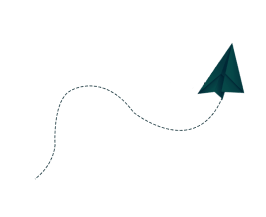
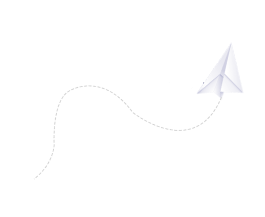
contact page

diff --git a/src/pages/contact.jsx b/src/pages/contact.jsx
@@ -69,7 +69,7 @@ const Contact = () => {
             </div>
             <div className="button">
               <button>Send Message</button>
-              <img src="/images/Four.png" alt="four" />
+              <img src="/images/Contact/Four.png" alt="four" />
             </div>
           </div>
         </div>
@@ -104,18 +104,19 @@ const Container = styled.div`
       p.head {
         font-size: 2rem;
         font-weight: 800;
-        color: var(--dark);
+        color: var(--white);
       }
 
       p.para {
         line-height: 30px;
+        color: var(--bright);
       }
     }
 
     .content {
       height: auto;
       display: flex;
-      margin: 10px 0 10px 0;
+      margin: 10px 0 50px 0;
       flex-direction: row;
 
       @media only screen and (min-width: 1200px) {
@@ -130,7 +131,7 @@ const Container = styled.div`
         width: 40%;
         height: 650px;
         border-radius: 10px;
-        background: var(--white);
+        background: var(--dark);
         padding: 30px;
 
         .top {
@@ -140,6 +141,10 @@ const Container = styled.div`
           flex-direction: column;
           align-content: flex-start;
 
+          p {
+            color: var(--white);
+          }
+
           .head {
             font-size: 2em;
           }
@@ -148,6 +153,10 @@ const Container = styled.div`
         .middle {
           width: 100%;
           height: auto;
+
+          p {
+            color: var(--white);
+          }
 
           .row {
             width: 100%;
@@ -160,11 +169,13 @@ const Container = styled.div`
             .icon {
               font-size: 1.3em;
               margin: 0 10px 0 0;
+              color: var(--white);
             }
 
             .big {
               font-size: 1.5em;
               margin: 0 10px 0 0;
+              color: var(--white);
             }
           }
         }
@@ -183,6 +194,10 @@ const Container = styled.div`
           flex-direction: row;
           justify-content: space-between;
 
+          label {
+            color: var(--white);
+          }
+
           .chunk {
             width: 48%;
             height: 60px;
@@ -196,7 +211,8 @@ const Container = styled.div`
               background: transparent;
               border: none;
               outline: none;
-              border-bottom: 1px solid var(--dark);
+              border-bottom: 1px solid var(--gray);
+              color: var(--white);
             }
           }
 
@@ -212,7 +228,8 @@ const Container = styled.div`
               background: transparent;
               border: none;
               outline: none;
-              border-bottom: 1px solid var(--dark);
+              border-bottom: 1px solid var(--gray);
+              color: var(--white);
             }
           }
         }
@@ -234,7 +251,7 @@ const Container = styled.div`
             height: 40px;
             border-radius: 50px;
             border: none;
-            background: var(--dark);
+            background: var(--bright);
             color: var(--white);
           }
         }
